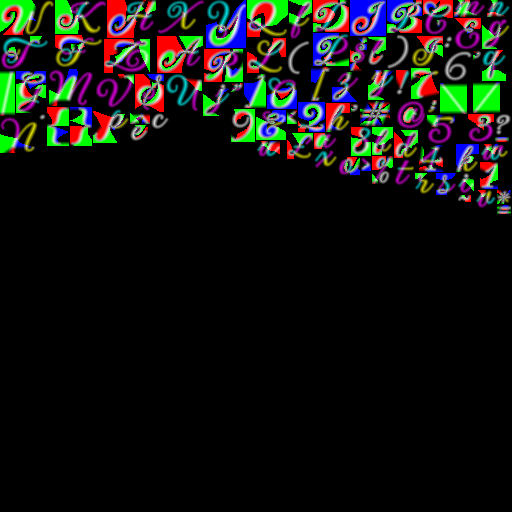
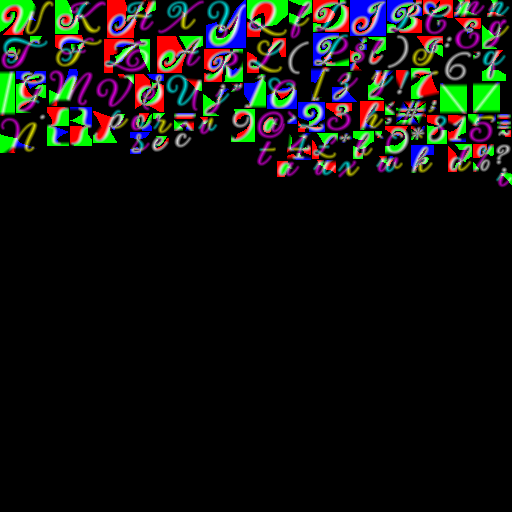
allow-spaces Replaced the font files so they include 0 and spaces, and the CustomTextHandler now replaces %20s with spaces.

Changed region(s): [[0.5, 0.1875, 1.0, 0.4375], [0.25, 0.2188, 0.4375, 0.3125]]

diff --git a/static/scripts/CustomTextHandler.js b/static/scripts/CustomTextHandler.js
@@ -1,11 +1,13 @@
 class CustomTextHandler {
     receiveParameters() {
         const url = window.location.href;
-        const regexPattern = /(?<=\?name=)[a-z1-9?!.,#()\@\:\;\/\-]+/i;
+        const regexPattern = /(?<=\?name=)[a-z0-9?!.,#()\%\@\:\;\/\-]+/i;
         const match = url.match(regexPattern);
 
         if (match !== null) {
-            return match[0];
+            let final = match[0].replaceAll("%20", " ");
+            console.log(match[0]);
+            return final;
         }
 
         return "Everyone!";
